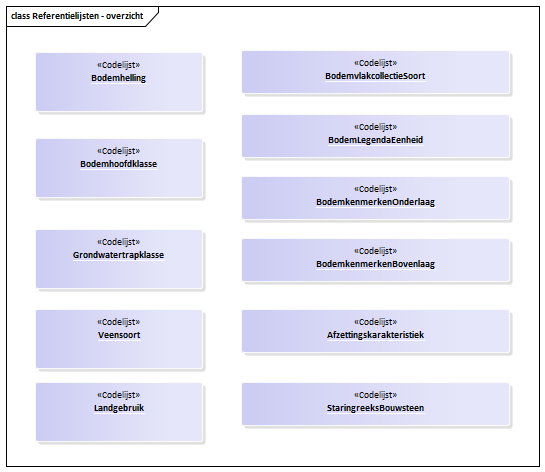
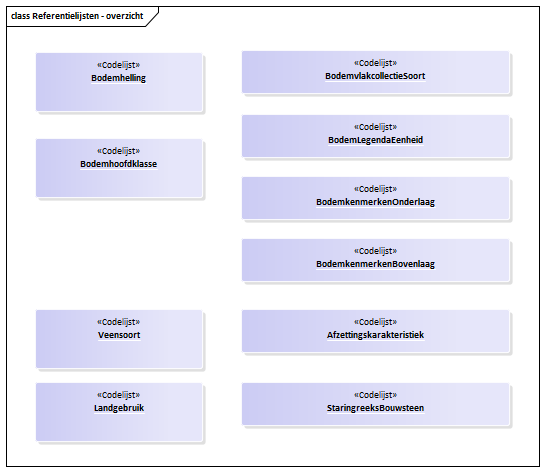
Conceptualmodel-BodemkaartSGM-1.0-1-20180806-20181015-132639

Changed region(s): [[0.0624, 0.4746, 0.3743, 0.6229]]

diff --git a/data/SGM-cat.html b/data/SGM-cat.html
@@ -1,10 +1,10 @@
 <h2>Catalogus</h2>
 <p class="note" title="Over deze catalogus">
    Deze catalogus is automatisch samengesteld op basis van het UML model 
-   "Bodem- en Grondwatertrappenkaart (SGM)" door Imvertor 1.47.3 op October 15, 2018 at 06:27:49.
+   "Bodemkaart (SGM)" door Imvertor 1.47.3 op October 15, 2018 at 11:26:37.
    <br>
    Wanneer je technische fouten of onvolkomenheden aantreft, geef dit dan door aan <i></i> en geef de code 
-   <i>"Conceptualmodel-Bodem-enGrondwatertrappenkaartSGM-1.0-1-20180806-20181015-082751"</i> door. 
+   <i>"Conceptualmodel-BodemkaartSGM-1.0-1-20180806-20181015-132639"</i> door. 
    
 </p><a class="anchor" name="global_package_Model"></a><section id="global_package_Model">
    <h3>Domein Model</h3>
@@ -20,7 +20,7 @@
          <area shape="rect" coords="686,329,907,240" alt="" href="#graph_EAID_F7554868_9447_4c85_91F2_85A060A04221">
          <area shape="rect" coords="1257,332,1546,240" alt="" href="#graph_EAID_A1837B5E_AAEC_4abd_AD4E_490E18AC9B51">
          <area shape="rect" coords="150,712,380,610" alt="" href="#graph_EAID_937AC71F_F454_49a3_8257_4ED3B68B25F1">
-         <area shape="rect" coords="985,506,1291,378" alt="" href="#graph_EAID_D299245E_D76A_4628_9E60_A0D563127253"></map><p><b>Bodem- en Grondwatertrappenkaart 1:50.000 - overzicht</b></p>
+         <area shape="rect" coords="985,506,1291,378" alt="" href="#graph_EAID_D299245E_D76A_4628_9E60_A0D563127253"></map><p><b>Bodemkaart 1:50.000 - overzicht</b></p>
    </div>
    <div class="imageinfo overview"><img src="data/Images/EAID_2793BB12_5218_46ab_B17A_9F4C5C392B77.png" usemap="#imagemap-EAID_2793BB12_5218_46ab_B17A_9F4C5C392B77"><map name="imagemap-EAID_2793BB12_5218_46ab_B17A_9F4C5C392B77">
          <area shape="rect" coords="241,282,510,238" alt="" href="#graph_EAID_21FF9CA4_F85D_4d76_B3FC_6AD3B00C742C">
@@ -28,7 +28,6 @@
          <area shape="rect" coords="35,442,203,382" alt="" href="#graph_EAID_E6891C10_4381_49af_88F6_76AB00B3EC38">
          <area shape="rect" coords="241,353,510,309" alt="" href="#graph_EAID_221C871A_13AD_44e3_9308_22DE99CA2535">
          <area shape="rect" coords="35,369,203,309" alt="" href="#graph_EAID_9B888E35_97C1_4f8e_A68A_9712DC99F487">
-         <area shape="rect" coords="35,289,203,229" alt="" href="#graph_EAID_D10ABF0F_9F0F_4799_998E_148DC39ACF94">
          <area shape="rect" coords="241,158,510,114" alt="" href="#graph_EAID_A496AF46_D3AE_4400_8138_91E0BEFFB6A6">
          <area shape="rect" coords="241,220,510,176" alt="" href="#graph_EAID_5463CF56_01BC_4f0c_88A7_11F479050C47">
          <area shape="rect" coords="35,198,203,138" alt="" href="#graph_EAID_195648A8_101B_4368_86F9_28E280667479">
@@ -288,7 +287,7 @@
                      Bodemvlakcollectie
                      is specialisatie van
                      
-                     <a class="link" href="#global_class_Model_BodemEnGrondwatertrapRegistratieObject">Bodem en grondwatertrap registratie-object</a>
+                     <a class="link" href="#global_class_Model_BodemRegistratieObject">Bodem registratie-object</a>
                      
                      
                   </td>
@@ -421,7 +420,7 @@
                      Bodemvlak
                      is specialisatie van
                      
-                     <a class="link" href="#global_class_Model_BodemEnGrondwatertrapRegistratieObject">Bodem en grondwatertrap registratie-object</a>
+                     <a class="link" href="#global_class_Model_BodemRegistratieObject">Bodem registratie-object</a>
                      
                      
                   </td>
@@ -569,7 +568,7 @@
                      Standaard bodemprofiel
                      is specialisatie van
                      
-                     <a class="link" href="#global_class_Model_BodemEnGrondwatertrapRegistratieObject">Bodem en grondwatertrap registratie-object</a>
+                     <a class="link" href="#global_class_Model_BodemRegistratieObject">Bodem registratie-object</a>
                      
                      
                   </td>
@@ -781,7 +780,7 @@
                      Profiellaag
                      is specialisatie van
                      
-                     <a class="link" href="#global_class_Model_BodemEnGrondwatertrapRegistratieObject">Bodem en grondwatertrap registratie-object</a>
+                     <a class="link" href="#global_class_Model_BodemRegistratieObject">Bodem registratie-object</a>
                      
                      
                   </td>
@@ -939,8 +938,8 @@
          
          
       </section>
-      <a class="anchor" name="graph_EAID_5403E30C_F3F4_4c09_907F_D48BE501C19C"></a><a class="anchor" name="global_class_Model_BodemEnGrondwatertrapRegistratieObject"></a><section id="global_class_Model_BodemEnGrondwatertrapRegistratieObject">
-         <h5>Objecttype Bodem en grondwatertrap registratie-object</h5>
+      <a class="anchor" name="graph_EAID_5403E30C_F3F4_4c09_907F_D48BE501C19C"></a><a class="anchor" name="global_class_Model_BodemRegistratieObject"></a><section id="global_class_Model_BodemRegistratieObject">
+         <h5>Objecttype Bodem registratie-object</h5>
          
          <table>
             <colgroup width="30%"></colgroup>
@@ -948,7 +947,7 @@
             <tbody>
                <tr>
                   <th>Naam</th>
-                  <td>Bodem en grondwatertrap registratie-object</td>
+                  <td>Bodem registratie-object</td>
                </tr>
                <tr>
                   <th>Herkomst</th>
@@ -1600,14 +1599,6 @@
             <tr>
                <th><a class="anchor" name="global_class_Model_StaringreeksBouwsteen"></a><a class="link" href="#detail_class_Model_StaringreeksBouwsteen">StaringreeksBouwsteen</a></th>
                <td>Aanduiding van de soorten StaringsreeksBouwstaan.</td>
-            </tr>
-            <tr>
-               <th><a class="anchor" name="global_class_Model_Grondwatertrapklasse"></a><a class="link" href="#detail_class_Model_Grondwatertrapklasse">Grondwatertrapklasse</a></th>
-               <td>Opsomming van de toegestane waarden voor het aanduiden van de grondwatertrap. Elke
-                  waarde bestaat uit een codering en een bij de codering behorende omschrijving. De
-                  codering geeft een classificatie van de grondwatertrap, op basis van de gemiddeld
-                  hoogste grondwaterstand (in cm) en de gemiddeld laagste grondwaterstand (in cm).
-               </td>
             </tr>
             <tr>
                <th><a class="anchor" name="global_class_Model_Landgebruik"></a><a class="link" href="#detail_class_Model_Landgebruik">Landgebruik</a></th>
@@ -3694,35 +3685,6 @@
                <tr>
                   <th>Definitie</th>
                   <td>Aanduiding van de soorten StaringsreeksBouwstaan.</td>
-               </tr>
-            </tbody>
-         </table>
-         
-         <table>
-            <tbody>
-               <tr>
-                  <th>Code</th>
-                  <th>Naam</th>
-                  <th>Definitie</th>
-               </tr>
-            </tbody>
-         </table>
-         
-      </section>
-      <a class="anchor" name="graph_EAID_D10ABF0F_9F0F_4799_998E_148DC39ACF94"></a><a class="anchor" name="detail_class_Model_Grondwatertrapklasse"></a><section id="detail_class_Model_Grondwatertrapklasse">
-         <h6>Codelijst details Grondwatertrapklasse</h6>
-         
-         <table>
-            <colgroup width="40%"></colgroup>
-            <colgroup width="60%"></colgroup>
-            <tbody>
-               <tr>
-                  <th>Definitie</th>
-                  <td>Opsomming van de toegestane waarden voor het aanduiden van de grondwatertrap. Elke
-                     waarde bestaat uit een codering en een bij de codering behorende omschrijving. De
-                     codering geeft een classificatie van de grondwatertrap, op basis van de gemiddeld
-                     hoogste grondwaterstand (in cm) en de gemiddeld laagste grondwaterstand (in cm).
-                  </td>
                </tr>
             </tbody>
          </table>
